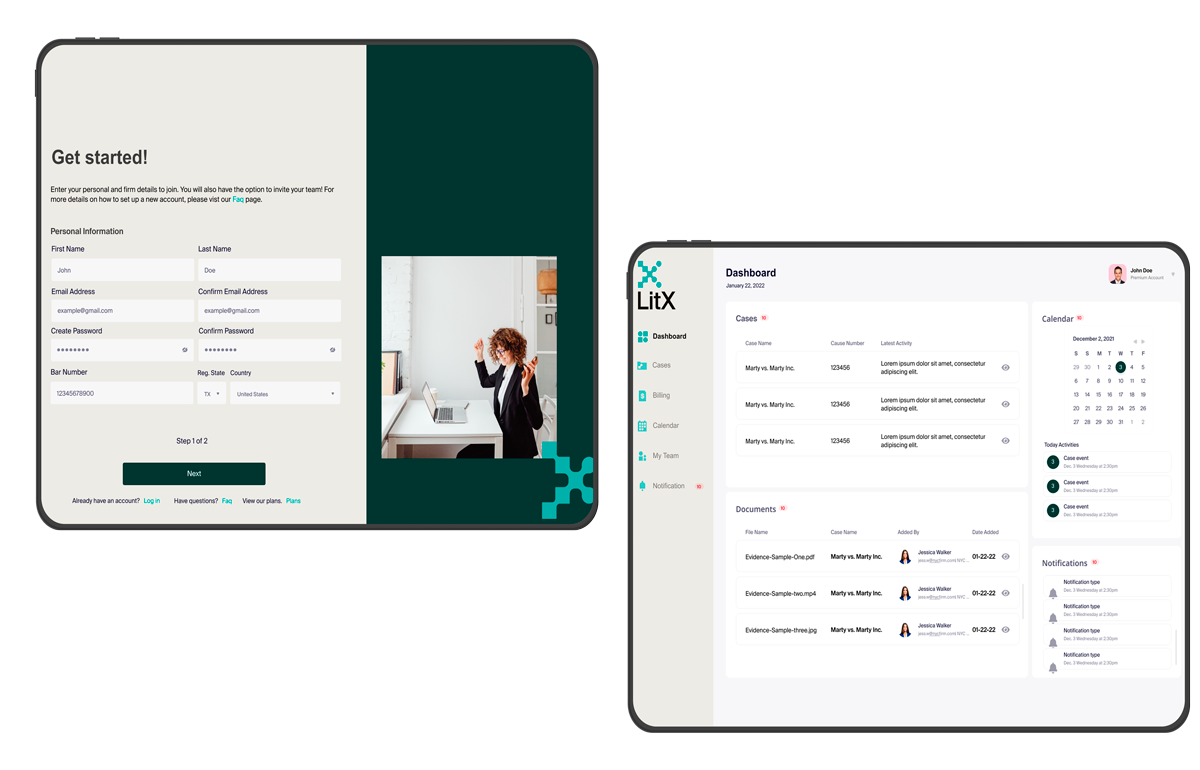
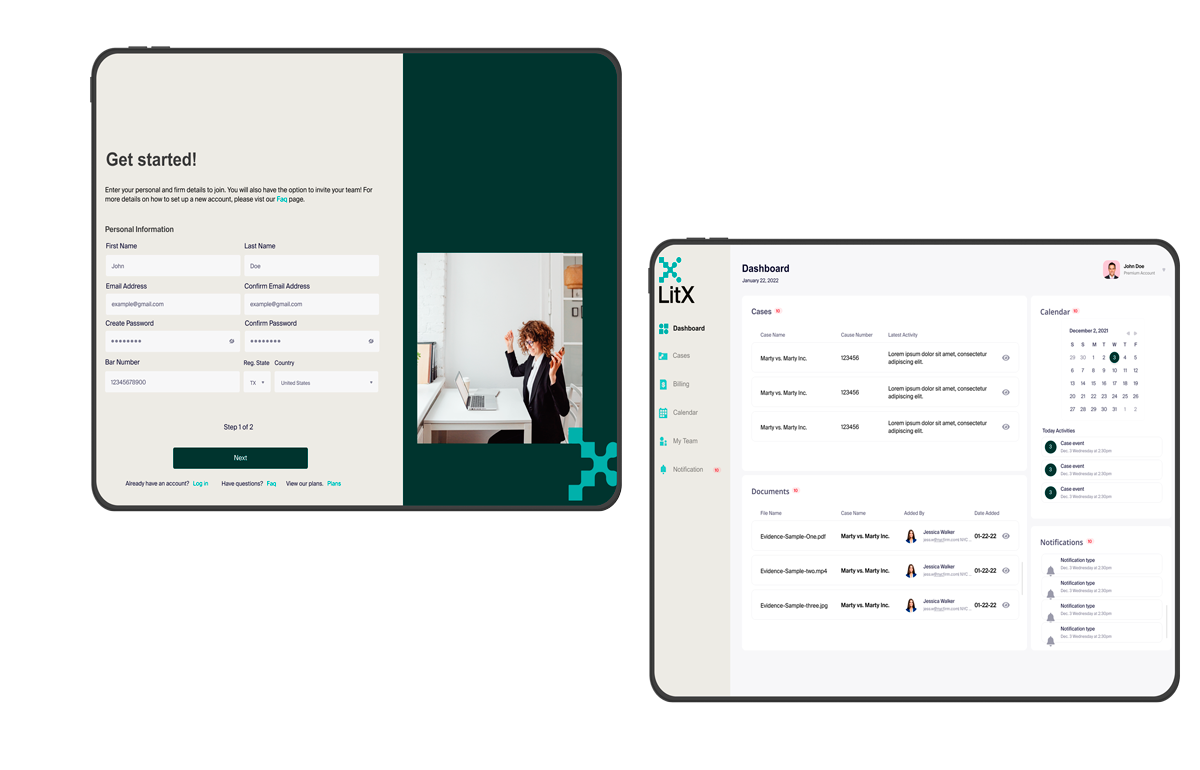
larger image

diff --git a/portfolio.html b/portfolio.html
@@ -325,7 +325,8 @@
                   
                   <div>
                     <p class:"text-dark">
-                      The modern litigation document exchange. The problem in the law industry has always been the movement of documents from one party to another. The solution is now that there is one location for all parties to view, sign, and use documents accordingly within the case.
+                      The modern litigation document exchange. 
+                      The problem in the law industry has always been the movement of documents from one party to another. The solution is now that there is one location for all parties to view, sign, and use documents accordingly within the case.
                     </p>
                   </div>
                 </div>
@@ -371,7 +372,7 @@
             <div class="col-sm-12 col-md-7 col-lg-7">
               <div class="section-right">
                 <img
-                  class="mx-width-900"
+                  class="mx-width-700"
                   src="images/litx-portfolio-image.png"
                 />
               </div>
